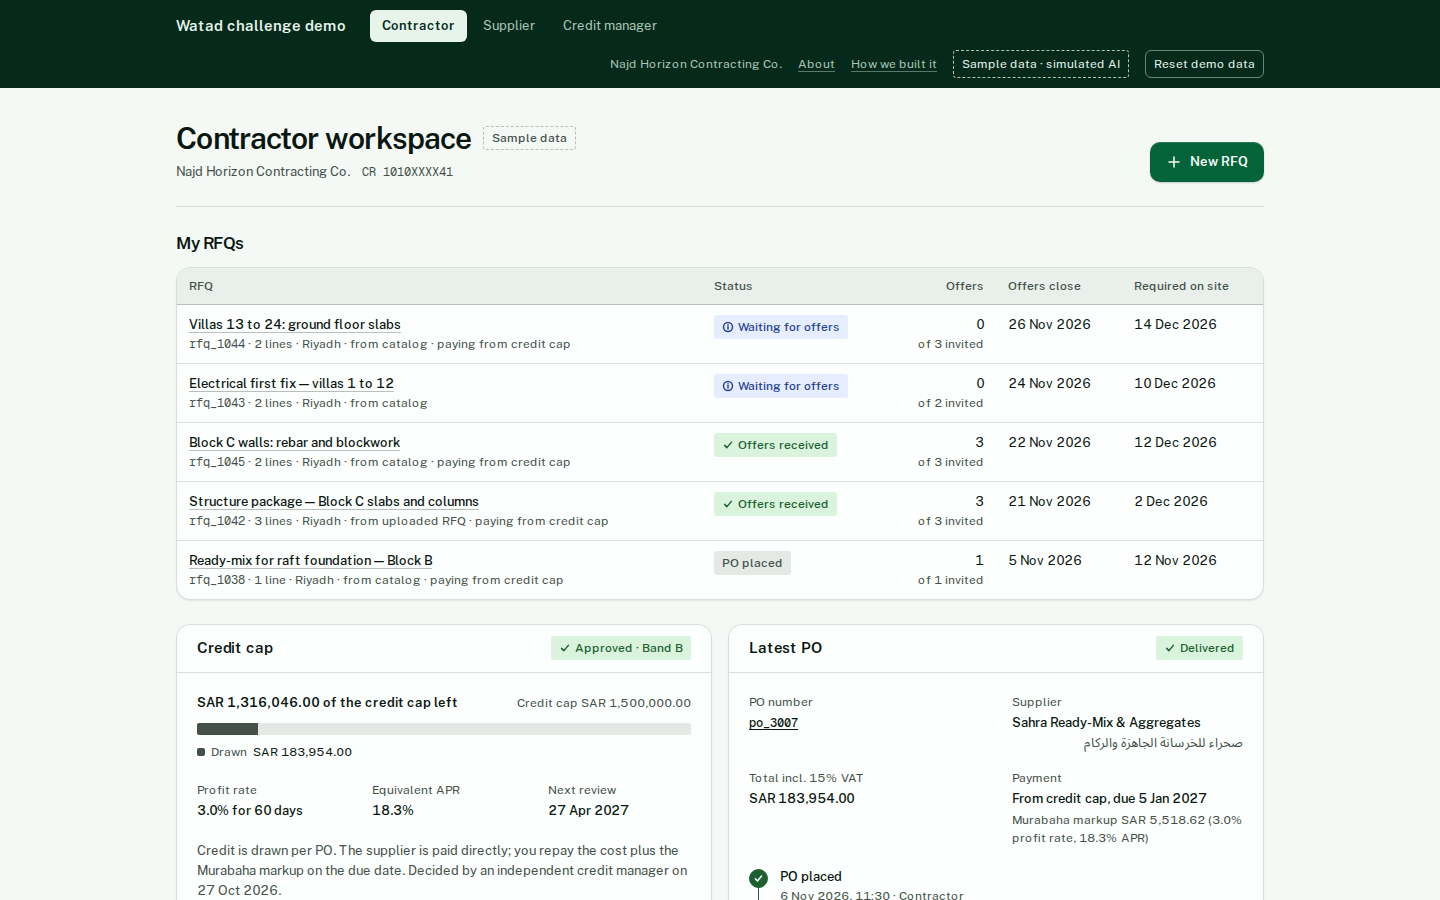
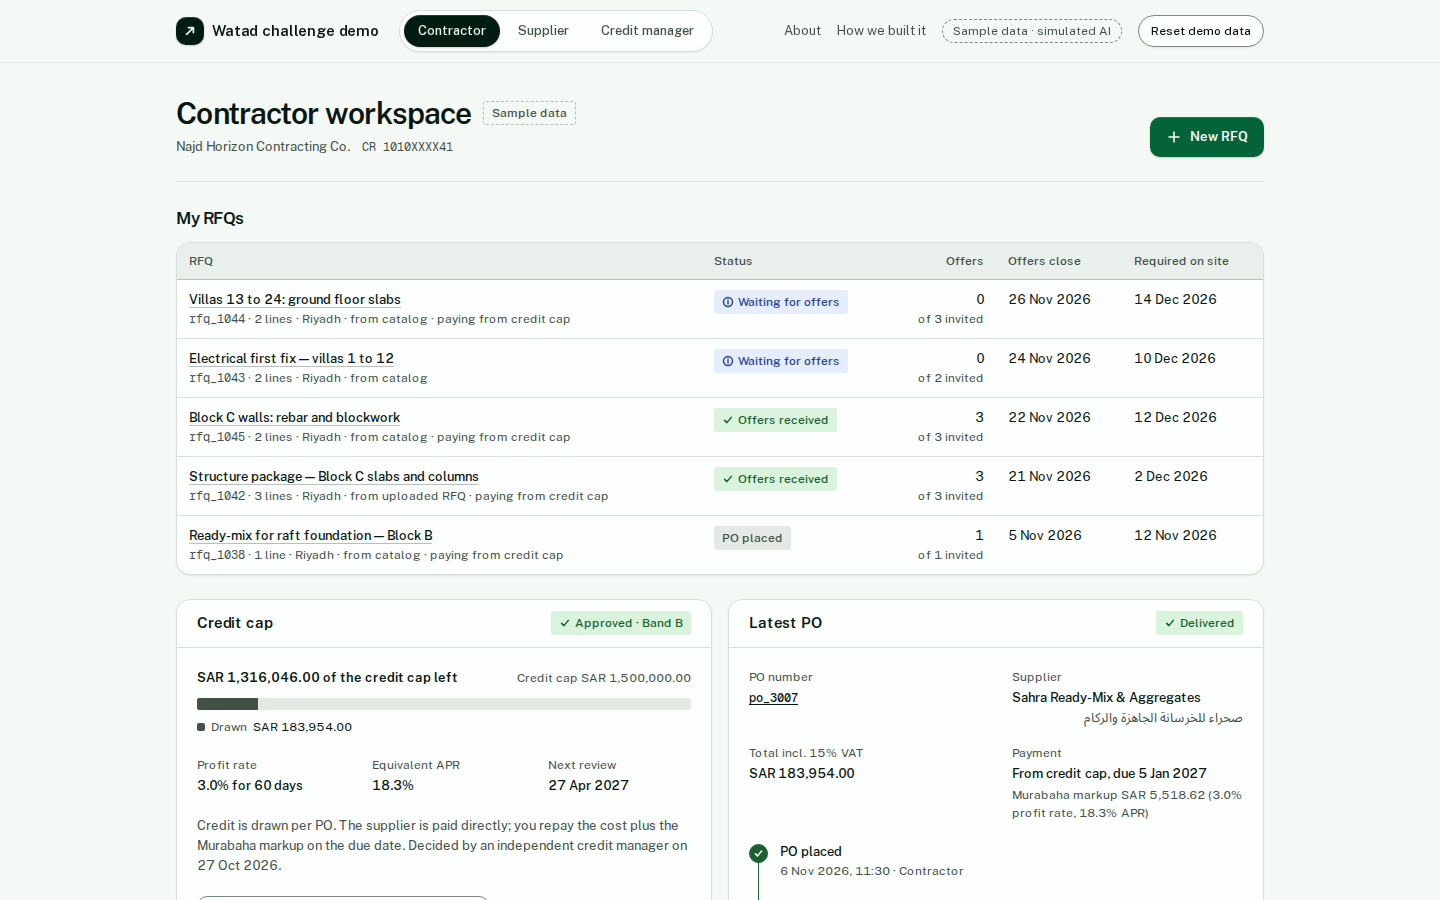
feat(design): app bar in the new language, one line from 1024 px
The role bar and the explanation-page header become the same light bar
as the landing nav: product mark, the role switcher as pills, About /
How we built (from 1280 px), the sample-data label and the demo reset.
One line from 1024 px (it wrapped at 1440 since #41), two rows on
phones, sticky from 640 px. All test ids unchanged.

Refs #7

diff --git a/src/components/role-nav.tsx b/src/components/role-nav.tsx
@@ -1,5 +1,6 @@
 import Link from "next/link";
 import type { Role } from "@/domain/types";
+import { Icon } from "./ui";
 import { ResetDemoButton } from "./reset-demo-button";
 import { RoleLink } from "./role-link";
 
@@ -9,19 +10,25 @@ export const ROLES: { role: Role; href: string; label: string; persona: string; 
   { role: "credit", href: "/credit", label: "Credit manager", persona: "Independent credit manager", blurb: "Review documents, gated checks and the scorecard with AI assist, then approve, decline or request more information." },
 ];
 
-/** Pine bar shared by the three role areas: product name, role switcher, demo controls. */
+/**
+ * App bar shared by the three role areas, in the same language as the landing
+ * nav: product mark, the role switcher as pills, then the explanation pages,
+ * the sample-data label and the demo reset. One line from 1024 px (About links from 1280 px); wraps below.
+ */
 export function RoleNav({ current }: { current: Role }) {
-  const persona = ROLES.find((r) => r.role === current)?.persona;
   return (
-    <header className="bg-pine text-on-pine">
-      <a href="#main" className="sr-only focus:not-sr-only focus:absolute focus:left-3 focus:top-3 focus:z-10 focus:rounded-md focus:bg-surface focus:px-3 focus:py-2 focus:text-sm focus:text-ink">
+    <header className="z-20 border-b border-line/70 bg-paper/85 backdrop-blur-md sm:sticky sm:top-0">
+      <a href="#main" className="sr-only focus:not-sr-only focus:absolute focus:left-3 focus:top-3 focus:z-30 focus:rounded-md focus:bg-surface focus:px-3 focus:py-2 focus:text-sm focus:text-ink">
         Skip to content
       </a>
-      <div className="mx-auto flex max-w-6xl flex-wrap items-center gap-x-6 gap-y-2 px-4 py-2.5 sm:px-8">
-        <Link href="/" className="rounded-sm text-base font-semibold text-on-pine focus-visible:outline-on-pine">
-          Watad challenge demo
+      <div className="mx-auto flex max-w-6xl flex-wrap items-center gap-x-5 gap-y-2 px-4 py-2.5 sm:px-8">
+        <Link href="/" className="flex items-center gap-2 rounded-md text-base font-semibold tracking-[-0.01em] text-ink">
+          <span aria-hidden="true" className="grid size-7 place-items-center rounded-lg bg-pine-deep text-on-pine shadow-button">
+            <Icon name="arrow-right" size={14} strokeWidth={2} className="-rotate-45" />
+          </span>
+          <span className="hidden sm:inline">Watad challenge demo</span>
         </Link>
-        <nav aria-label="Switch role" data-testid="role-switcher" className="flex gap-1 text-sm">
+        <nav aria-label="Switch role" data-testid="role-switcher" className="order-last flex w-full gap-1 overflow-x-auto rounded-full border border-line bg-surface p-1 shadow-card text-sm sm:order-none sm:w-auto">
           {ROLES.map((r) => {
             const active = r.role === current;
             return (
@@ -32,8 +39,8 @@ export function RoleNav({ current }: { current: Role }) {
                 href={r.href}
                 data-testid={`role-switcher-${r.role}`}
                 aria-current={active ? "page" : undefined}
-                className={`flex h-8 items-center whitespace-nowrap rounded-md px-3 transition-colors duration-150 focus-visible:outline-on-pine ${
-                  active ? "bg-on-pine font-semibold text-pine" : "text-on-pine-muted hover:bg-pine-raised hover:text-on-pine"
+                className={`flex h-8 flex-1 items-center justify-center whitespace-nowrap rounded-full px-3.5 font-medium transition-colors duration-150 sm:flex-none ${
+                  active ? "bg-pine-deep text-on-pine shadow-button" : "text-ink-muted hover:bg-paper hover:text-ink"
                 }`}
               >
                 {r.label}
@@ -41,15 +48,14 @@ export function RoleNav({ current }: { current: Role }) {
             );
           })}
         </nav>
-        <div className="ml-auto flex flex-wrap items-center gap-x-4 gap-y-1 text-xs text-on-pine-muted">
-          {persona ? <span className="hidden md:inline">{persona}</span> : null}
-          <Link href="/about" data-testid="nav-about" className="rounded-sm text-on-pine-muted underline decoration-on-pine-muted/50 underline-offset-[3px] hover:text-on-pine focus-visible:outline-on-pine">
+        <div className="ml-auto flex items-center gap-x-2 text-sm sm:gap-x-4">
+          <Link href="/about" data-testid="nav-about" className="hidden text-ink-muted transition-colors duration-150 hover:text-ink xl:inline">
             About
           </Link>
-          <Link href="/how-we-built" data-testid="nav-how-we-built" className="rounded-sm text-on-pine-muted underline decoration-on-pine-muted/50 underline-offset-[3px] hover:text-on-pine focus-visible:outline-on-pine">
+          <Link href="/how-we-built" data-testid="nav-how-we-built" className="hidden whitespace-nowrap text-ink-muted transition-colors duration-150 hover:text-ink xl:inline">
             How we built it
           </Link>
-          <span className="rounded-sm border border-dashed border-on-pine-muted px-2 py-1 text-on-pine">Sample data · simulated AI</span>
+          <span className="whitespace-nowrap rounded-full border border-dashed border-line-control px-2.5 py-0.5 text-xs text-ink-muted">Sample data · simulated AI</span>
           <ResetDemoButton />
         </div>
       </div>

diff --git a/src/components/site-header.tsx b/src/components/site-header.tsx
@@ -1,4 +1,5 @@
 import Link from "next/link";
+import { buttonClass, Icon } from "./ui";
 
 const LINKS = [
   { href: "/about", label: "About" },
@@ -8,15 +9,18 @@ const LINKS = [
 /** Pine bar for pages outside the three role areas: product name and the explanation pages. */
 export function SiteHeader({ current }: { current?: (typeof LINKS)[number]["href"] }) {
   return (
-    <header className="bg-pine text-on-pine">
+    <header className="sticky top-0 z-20 border-b border-line/70 bg-paper/85 backdrop-blur-md">
       <a href="#main" className="sr-only focus:not-sr-only focus:absolute focus:left-3 focus:top-3 focus:z-10 focus:rounded-md focus:bg-surface focus:px-3 focus:py-2 focus:text-sm focus:text-ink">
         Skip to content
       </a>
       <div className="mx-auto flex max-w-6xl flex-wrap items-center gap-x-6 gap-y-2 px-4 py-2.5 sm:px-8">
-        <Link href="/" className="rounded-sm text-base font-semibold text-on-pine focus-visible:outline-on-pine">
+        <Link href="/" className="flex items-center gap-2 rounded-md text-base font-semibold tracking-[-0.01em] text-ink">
+          <span aria-hidden="true" className="grid size-7 place-items-center rounded-lg bg-pine-deep text-on-pine shadow-button">
+            <Icon name="arrow-right" size={14} strokeWidth={2} className="-rotate-45" />
+          </span>
           Watad challenge demo
         </Link>
-        <nav aria-label="About this demo" data-testid="site-nav" className="flex gap-1 text-sm">
+        <nav aria-label="About this demo" data-testid="site-nav" className="flex gap-1 rounded-full border border-line bg-surface p-1 text-sm shadow-card">
           {LINKS.map((l) => {
             const active = l.href === current;
             return (
@@ -24,8 +28,8 @@ export function SiteHeader({ current }: { current?: (typeof LINKS)[number]["href
                 key={l.href}
                 href={l.href}
                 aria-current={active ? "page" : undefined}
-                className={`flex h-8 items-center whitespace-nowrap rounded-md px-3 transition-colors duration-150 focus-visible:outline-on-pine ${
-                  active ? "bg-on-pine font-semibold text-pine" : "text-on-pine-muted hover:bg-pine-raised hover:text-on-pine"
+                className={`flex h-8 items-center whitespace-nowrap rounded-full px-3.5 font-medium transition-colors duration-150 ${
+                  active ? "bg-pine-deep text-on-pine shadow-button" : "text-ink-muted hover:bg-paper hover:text-ink"
                 }`}
               >
                 {l.label}
@@ -35,7 +39,7 @@ export function SiteHeader({ current }: { current?: (typeof LINKS)[number]["href
         </nav>
         <Link
           href="/"
-          className="ml-auto flex h-8 items-center rounded-md border border-on-pine-muted/60 px-3 text-sm text-on-pine transition-colors duration-150 hover:bg-pine-raised focus-visible:outline-on-pine"
+          className={buttonClass("primary", "sm", "ml-auto rounded-full px-4")}
         >
           Choose a role
         </Link>

diff --git a/src/components/reset-demo-button.tsx b/src/components/reset-demo-button.tsx
@@ -3,7 +3,7 @@
 import { track } from "@/lib/analytics";
 import { resetDemo } from "@/store";
 
-/** Sits on the pine bar: restores the seeded sample data. */
+/** In the app bar: restores the seeded sample data. */
 export function ResetDemoButton() {
   return (
     <button
@@ -12,9 +12,10 @@ export function ResetDemoButton() {
         resetDemo();
         track("demo_reset", {});
       }}
-      className="flex h-7 items-center rounded-md border border-on-pine-muted/60 px-2 text-xs text-on-pine transition-colors duration-150 hover:bg-pine-raised focus-visible:outline-on-pine"
+      className="flex h-8 items-center whitespace-nowrap rounded-full border border-line-control bg-surface px-2.5 text-xs sm:px-3 font-medium text-ink shadow-card transition-colors duration-150 hover:bg-paper"
     >
-      Reset demo data
+      <span className="sm:hidden">Reset</span>
+      <span className="hidden sm:inline">Reset demo data</span>
     </button>
   );
 }
